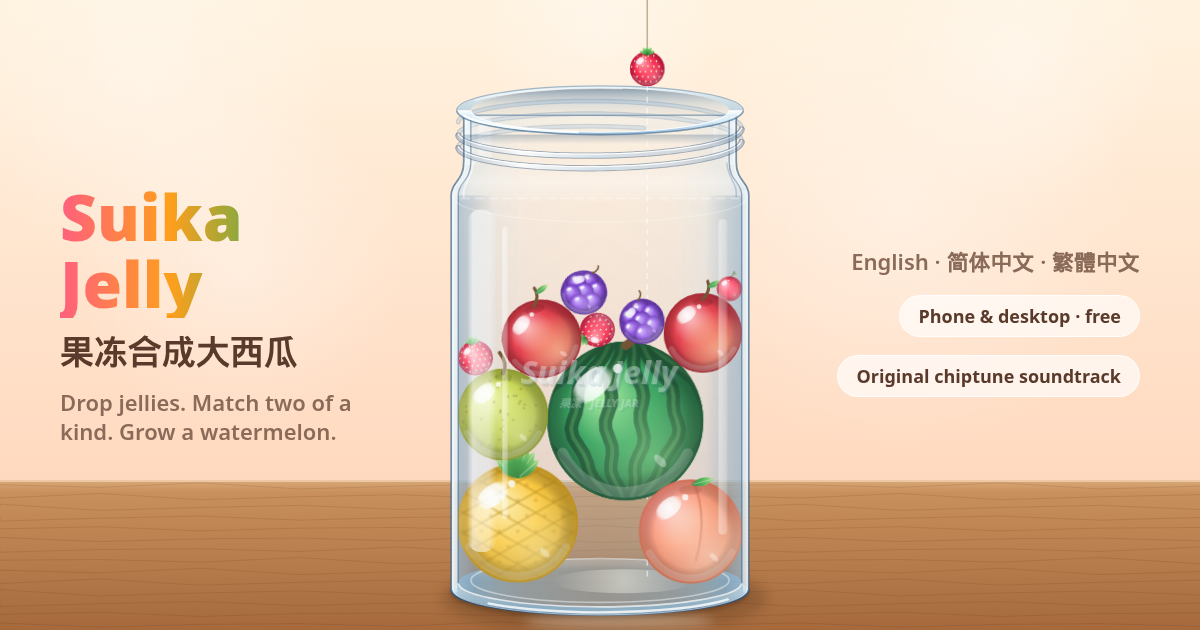
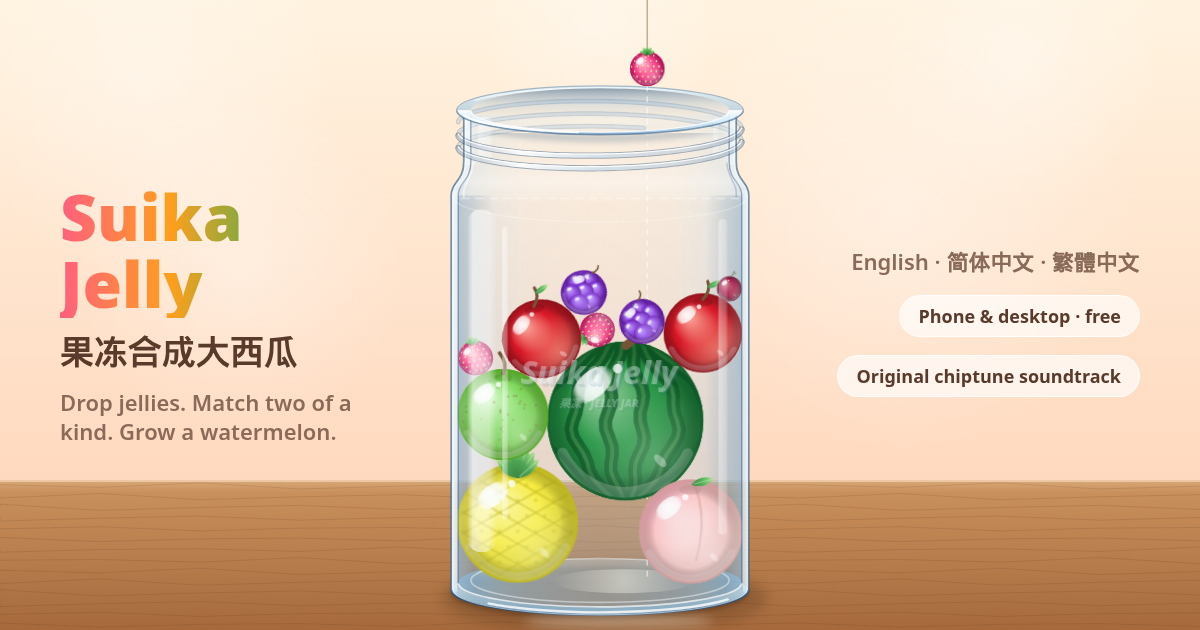
Fruit colours: make every fruit distinct, also for colour-blind players
Cherry, strawberry and apple were nearly the same red, dekopon and
persimmon the same orange, and pear, pineapple and melon blurred
together. Each fruit now has its own hue and its own lightness step:
wine cherry, pink strawberry, violet grape, amber dekopon, orange
persimmon, red apple, green pear, pale pink peach, yellow pineapple,
jade melon, dark green watermelon.

Measured on the rendered sprites at equal size (OKLab distance x100):
closest pair 2.4 -> 9.9, pairs under 10: 13 -> 2, under 6: 5 -> 0.
For red-green colour blindness, neighbouring tiers under 6: 6 -> 1.

- apple blush and peach tint no longer pull them toward orange/yellow
- scripts/palette.mjs renders a contact sheet and prints distances
- test/palette.test.ts enforces minimum distances
- link-preview cover regenerated (ONLY=cover mode in assets script)

diff --git a/test/palette.test.ts b/test/palette.test.ts
@@ -1,0 +1,73 @@
+import { describe, expect, it } from 'vitest';
+import { FRUITS } from '../src/game/fruits';
+import { distance, hexToLinear, oklab } from './helpers/colour';
+
+/**
+ * Players tell fruits apart by colour first. These limits are on the base colours; what is
+ * drawn (gloss, seeds, stripes) is measured by `node scripts/palette.mjs`, which is the tool
+ * to use when changing the palette. The numbers are OKLab distances times 100: about 10 is
+ * clearly different, and the old palette had three reds only 2 to 4 apart.
+ */
+const MIN_ANY_PAIR = 12;
+const MIN_NEIGHBOURS_COLOUR_BLIND = 9;
+
+const colours = FRUITS.map((f) => ({ key: f.key, c: hexToLinear(f.color), light: hexToLinear(f.light), dark: hexToLinear(f.dark) }));
+
+describe('fruit palette', () => {
+  it('every pair of fruits is clearly different in colour', () => {
+    const tooClose: string[] = [];
+    for (let i = 0; i < colours.length; i++) {
+      for (let j = i + 1; j < colours.length; j++) {
+        const d = distance(colours[i]!.c, colours[j]!.c);
+        if (d < MIN_ANY_PAIR) tooClose.push(`${colours[i]!.key}/${colours[j]!.key} ${d.toFixed(1)}`);
+      }
+    }
+    expect(tooClose).toEqual([]);
+  });
+
+  it('fruits of similar size stay apart for red-green colour-blind players', () => {
+    // Within two tiers the sizes are close, so size cannot do the job colour fails at.
+    const tooClose: string[] = [];
+    for (let i = 0; i < colours.length; i++) {
+      for (let j = i + 1; j <= i + 2 && j < colours.length; j++) {
+        const d = Math.min(distance(colours[i]!.c, colours[j]!.c, 'protan'), distance(colours[i]!.c, colours[j]!.c, 'deutan'));
+        if (d < MIN_NEIGHBOURS_COLOUR_BLIND) tooClose.push(`${colours[i]!.key}/${colours[j]!.key} ${d.toFixed(1)}`);
+      }
+    }
+    expect(tooClose).toEqual([]);
+  });
+
+  it('each fruit has a lighter highlight and a darker rim than its body', () => {
+    for (const f of colours) {
+      const L = oklab(f.c)[0];
+      // The palest fruits are already near white, so their highlight can only be a little lighter.
+      expect(oklab(f.light)[0], f.key).toBeGreaterThan(L + 0.02);
+      expect(oklab(f.dark)[0], f.key).toBeLessThan(L - 0.1);
+    }
+  });
+
+  it('colours are six-digit hex', () => {
+    for (const f of FRUITS) for (const v of [f.color, f.light, f.dark]) expect(v).toMatch(/^#[0-9a-f]{6}$/);
+  });
+});
+
+describe('colour distance helper', () => {
+  it('is zero for identical colours and large for opposite ones', () => {
+    expect(distance(hexToLinear('#336699'), hexToLinear('#336699'))).toBeCloseTo(0);
+    expect(distance(hexToLinear('#000000'), hexToLinear('#ffffff'))).toBeCloseTo(100, 0);
+  });
+  it('sees red and green as far apart normally and closer when red-green colour-blind', () => {
+    const red = hexToLinear('#d90a1a');
+    const green = hexToLinear('#2f9e57');
+    expect(distance(red, green)).toBeGreaterThan(25);
+    expect(distance(red, green, 'protan')).toBeLessThan(distance(red, green) * 0.75);
+    expect(distance(red, green, 'deutan')).toBeLessThan(distance(red, green) * 0.75);
+  });
+  it('would have failed the old palette', () => {
+    const cherry = hexToLinear('#ff3b5c');
+    const strawberry = hexToLinear('#ff2d55');
+    const apple = hexToLinear('#e63946');
+    expect(distance(cherry, strawberry)).toBeLessThan(MIN_ANY_PAIR);
+    expect(distance(strawberry, apple)).toBeLessThan(MIN_ANY_PAIR);
+  });
+});

diff --git a/test/helpers/colour.ts b/test/helpers/colour.ts
@@ -1,0 +1,60 @@
+/**
+ * How different two colours look, for people with normal colour vision and for the three
+ * common kinds of colour-vision deficiency. Distances are Euclidean in OKLab, times 100:
+ * roughly, 2 is just noticeable side by side, 10 is clearly different, 20+ is unmistakable.
+ */
+export type Vision = 'normal' | 'protan' | 'deutan' | 'tritan';
+export const VISIONS: readonly Vision[] = ['normal', 'protan', 'deutan', 'tritan'];
+
+type V3 = [number, number, number];
+
+/** Machado, Oliveira & Fernandes (2009), severity 1.0, applied to linear RGB. */
+const SIM: Record<Vision, [V3, V3, V3]> = {
+  normal: [[1, 0, 0], [0, 1, 0], [0, 0, 1]],
+  protan: [[0.152286, 1.052583, -0.204868], [0.114503, 0.786281, 0.099216], [-0.003882, -0.048116, 1.051998]],
+  deutan: [[0.367322, 0.860646, -0.227968], [0.280085, 0.672501, 0.047413], [-0.01182, 0.04294, 0.968881]],
+  tritan: [[1.255528, -0.076749, -0.178779], [-0.078411, 0.930809, 0.147602], [0.004733, 0.691367, 0.3039]],
+};
+
+export function srgbToLinear(c: number): number {
+  const v = c / 255;
+  return v <= 0.04045 ? v / 12.92 : ((v + 0.055) / 1.055) ** 2.4;
+}
+
+export function linearToSrgb(v: number): number {
+  const c = Math.min(1, Math.max(0, v));
+  return Math.round(255 * (c <= 0.0031308 ? c * 12.92 : 1.055 * c ** (1 / 2.4) - 0.055));
+}
+
+export function hexToLinear(hex: string): V3 {
+  const n = parseInt(hex.slice(1), 16);
+  return [srgbToLinear((n >> 16) & 255), srgbToLinear((n >> 8) & 255), srgbToLinear(n & 255)];
+}
+
+export function simulate(rgb: V3, vision: Vision): V3 {
+  const m = SIM[vision];
+  return m.map((row) => Math.min(1, Math.max(0, row[0] * rgb[0] + row[1] * rgb[1] + row[2] * rgb[2]))) as V3;
+}
+
+export function oklab([r, g, b]: V3): V3 {
+  const l = Math.cbrt(0.4122214708 * r + 0.5363325363 * g + 0.0514459929 * b);
+  const m = Math.cbrt(0.2119034982 * r + 0.6806995451 * g + 0.1073969566 * b);
+  const s = Math.cbrt(0.0883024619 * r + 0.2817188376 * g + 0.6299787005 * b);
+  return [0.2104542553 * l + 0.793617785 * m - 0.0040720468 * s, 1.9779984951 * l - 2.428592205 * m + 0.4505937099 * s, 0.0259040371 * l + 0.7827717662 * m - 0.808675766 * s];
+}
+
+export function distance(a: V3, b: V3, vision: Vision = 'normal'): number {
+  const x = oklab(simulate(a, vision));
+  const y = oklab(simulate(b, vision));
+  return 100 * Math.hypot(x[0] - y[0], x[1] - y[1], x[2] - y[2]);
+}
+
+/** The smallest distance across all kinds of vision: how well the worst-off player can tell them apart. */
+export function worstCase(a: V3, b: V3): { d: number; vision: Vision } {
+  let best: { d: number; vision: Vision } = { d: Infinity, vision: 'normal' };
+  for (const vision of VISIONS) {
+    const d = distance(a, b, vision);
+    if (d < best.d) best = { d, vision };
+  }
+  return best;
+}

diff --git a/src/game/fruits.ts b/src/game/fruits.ts
@@ -22,18 +22,25 @@ export type FruitKey =
   | 'melon'
   | 'watermelon';
 
+/**
+ * Colours are chosen to be told apart at a glance, including by colour-blind players: besides
+ * hue, the fruits are spread across lightness (cherry and watermelon dark, apple and grape
+ * mid, pineapple and melon light), because lightness survives red-green colour blindness.
+ * test/palette.test.ts keeps every pair a minimum distance apart; `node scripts/palette.mjs`
+ * renders a contact sheet for judging changes by eye.
+ */
 export const FRUITS: readonly FruitSpec[] = [
-  { key: 'cherry', r: 16, color: '#ff3b5c', light: '#ffb3c1', dark: '#a8122e' },
-  { key: 'strawberry', r: 22, color: '#ff2d55', light: '#ffa4b5', dark: '#b0103a' },
-  { key: 'grape', r: 29, color: '#8d4fe0', light: '#d9c2ff', dark: '#4a1f8f' },
-  { key: 'dekopon', r: 34, color: '#ff9f1c', light: '#ffe0a8', dark: '#b85e00' },
-  { key: 'persimmon', r: 42, color: '#ff7a1a', light: '#ffc99a', dark: '#b34700' },
-  { key: 'apple', r: 50, color: '#e63946', light: '#ffb8bd', dark: '#8f1520' },
-  { key: 'pear', r: 58, color: '#c9d84a', light: '#f3fbb0', dark: '#7e8a1d' },
-  { key: 'peach', r: 66, color: '#ffa07a', light: '#ffe3d1', dark: '#c65a3b' },
-  { key: 'pineapple', r: 76, color: '#ffc836', light: '#fff3b8', dark: '#b8860b' },
-  { key: 'melon', r: 88, color: '#a5e07a', light: '#eaffd0', dark: '#4f8f2f' },
-  { key: 'watermelon', r: 100, color: '#2f9e57', light: '#a8f0a0', dark: '#164d2c' },
+  { key: 'cherry', r: 16, color: '#9f033a', light: '#d07c87', dark: '#4a0016' },
+  { key: 'strawberry', r: 22, color: '#fe3d87', light: '#fed0da', dark: '#ab0553' },
+  { key: 'grape', r: 29, color: '#8a3ee0', light: '#c4a4fc', dark: '#50028f' },
+  { key: 'dekopon', r: 34, color: '#feaf28', light: '#fef1e1', dark: '#b47808' },
+  { key: 'persimmon', r: 42, color: '#e96402', light: '#ffcfb9', dark: '#943d01' },
+  { key: 'apple', r: 50, color: '#d90a1a', light: '#fe9c91', dark: '#7c0109' },
+  { key: 'pear', r: 58, color: '#79da53', light: '#deffd3', dark: '#409b0a' },
+  { key: 'peach', r: 66, color: '#fed1cf', light: '#fdf0ef', dark: '#ca908d' },
+  { key: 'pineapple', r: 76, color: '#fbee36', light: '#fdf8a7', dark: '#baaf08' },
+  { key: 'melon', r: 88, color: '#20baa1', light: '#bafbeb', dark: '#047a69' },
+  { key: 'watermelon', r: 100, color: '#198f38', light: '#98ce9d', dark: '#01511a' },
 ];
 
 export const TIER_COUNT = FRUITS.length;

diff --git a/src/render/fruitSprites.ts b/src/render/fruitSprites.ts
@@ -245,8 +245,8 @@ const DETAIL: Partial<Record<FruitSpec['key'], Detail>> = {
   },
   apple(g, s) {
     const blush = g.createRadialGradient(0.35, 0.35, 0, 0.3, 0.3, 0.9);
-    blush.addColorStop(0, 'rgba(255,214,90,0.5)');
-    blush.addColorStop(1, 'rgba(255,214,90,0)');
+    blush.addColorStop(0, 'rgba(255,190,120,0.28)');
+    blush.addColorStop(1, 'rgba(255,190,120,0)');
     g.fillStyle = blush;
     g.fillRect(-1, -1, 2, 2);
     g.fillStyle = withAlpha(s.dark, 0.35);
@@ -276,9 +276,9 @@ const DETAIL: Partial<Record<FruitSpec['key'], Detail>> = {
   },
   peach(g, s) {
     const tone = g.createLinearGradient(-0.8, -0.8, 0.8, 0.8);
-    tone.addColorStop(0, 'rgba(255,120,150,0.55)');
-    tone.addColorStop(0.55, 'rgba(255,160,122,0)');
-    tone.addColorStop(1, 'rgba(255,225,160,0.55)');
+    tone.addColorStop(0, 'rgba(255,120,160,0.5)');
+    tone.addColorStop(0.55, 'rgba(255,170,150,0)');
+    tone.addColorStop(1, 'rgba(255,225,190,0.35)');
     g.fillStyle = tone;
     g.fillRect(-1, -1, 2, 2);
     g.strokeStyle = withAlpha(s.dark, 0.4);

diff --git a/README.md b/README.md
@@ -25,6 +25,8 @@ npm test           # vitest: rules, merge maths, song data, i18n
 npm run build      # tsc + vite → dist/
 npm run smoke      # headless Chromium: plays, checks audio output, screenshots to /tmp
 npm run assets     # regenerate icons, iOS launch screens and cover.png into public/
+                   # (ONLY=cover npm run assets for just the link-preview image)
+node scripts/palette.mjs   # fruit colours: contact sheet and distances, see below
 
 npm run scores:dev # the leaderboard Worker locally on :8787 (npm run dev talks to it)
 npm run scores:e2e # API checks against a throwaway local Worker
@@ -83,6 +85,23 @@ kept; everything else is pruned daily. Weeks start on Monday 00:00 UTC.
 
 **Changing the rules.** `shared/scoreRules.ts` mirrors the scoring table and drop cooldown.
 If those change in the game, update it too; `npm test` fails when they disagree.
+
+## Fruit colours
+
+Each fruit has its own colour so it can be recognised at a glance: wine-red cherry, pink
+strawberry, violet grape, amber dekopon, orange persimmon, red apple, green pear, pale pink
+peach, yellow pineapple, jade melon, dark green watermelon. Besides hue the fruits are spread
+across lightness, because lightness is what remains for red-green colour-blind players.
+
+`node scripts/palette.mjs` draws every fruit at the same size, measures the colour each one
+really shows, and prints how far apart every pair is for normal vision and for the three
+kinds of colour blindness, with a contact sheet in `/tmp/suika-palette.png`. Use it when
+changing colours in `src/game/fruits.ts`; `npm test` enforces minimum distances.
+
+Eleven fruits cannot all be separated by colour alone for colour-blind players. Where colour
+runs out (dekopon and pear, for example), shape and pattern carry the difference: the
+dekopon's knob, strawberry seeds, the pineapple's lattice and crown, the melon's net, the
+watermelon's stripes.
 
 ## Scoring
 
